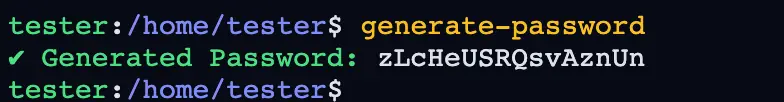
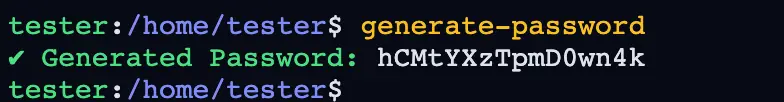
Introduction: a slide on adding packages with pkg; tests for pkg browse and pkg add
A seventh slide, More packages, between Games and Make it yours: pkg add
<name> adds tools and games that are not bundled (Connect Four, Hangman,
15-puzzle and Mastermind are on the way), Try it runs pkg browse, and its
picture is the real pkg browse output (npm run intro-images). Texts and alt
text in the 11 languages.

pkg works in the app as it is: no CSP, the service worker passes CDN requests
on, Android has the INTERNET permission. packages.spec.ts mocks the registry
and the CDNs with a sample plugin bundle: pkg browse lists it, pkg add
installs it, its command runs, and it is still there after a reload.

Changed region(s): [[0.4592, 0.4706, 0.8265, 0.7059]]

diff --git a/src/app/intro/intro-i18n.ts b/src/app/intro/intro-i18n.ts
@@ -29,6 +29,7 @@ export const INTRO_TEXT: Record<string, IntroText> = {
       ['Everyday tools', 'QR codes, passwords, GUIDs, encoding, curl, speed tests, to-dos, a stopwatch, charts and Markdown.', 'Screenshot: generate-password prints a new random password.'],
       ['Files', 'Your files stay on this device: list them with ls, read them with cat, edit them with nano.', 'Screenshot: ls lists the notes folder and todo.txt.'],
       ['Games', 'Snake, Tetris, 2048, Wordle, Sudoku and Minesweeper, by touch or keyboard.', 'Screenshot: the Snake board with the snake and an apple.'],
+      ['More packages', 'Add more tools and games with pkg add <name>; pkg browse lists them, and Connect Four, Hangman, 15-puzzle and Mastermind are on the way.', 'Screenshot: pkg browse lists the packages that can be added, with their versions.'],
       ['Make it yours', 'Pick colours with theme, one of 11 languages and more settings with configure.', 'Screenshot: theme list shows the dark themes with their colours.'],
     ],
   },
@@ -46,6 +47,7 @@ export const INTRO_TEXT: Record<string, IntroText> = {
       ['Alltagswerkzeuge', 'QR-Codes, Passwörter, GUIDs, Kodierung, curl, Speedtests, To-dos, eine Stoppuhr, Diagramme und Markdown.', 'Screenshot: generate-password gibt ein neues zufälliges Passwort aus.'],
       ['Dateien', 'Deine Dateien bleiben auf diesem Gerät: auflisten mit ls, lesen mit cat, bearbeiten mit nano.', 'Screenshot: ls listet den Ordner notes und todo.txt auf.'],
       ['Spiele', 'Snake, Tetris, 2048, Wordle, Sudoku und Minesweeper, per Touch oder Tastatur.', 'Screenshot: das Snake-Spielfeld mit der Schlange und einem Apfel.'],
+      ['Mehr Pakete', 'Weitere Werkzeuge und Spiele fügst du mit pkg add <name> hinzu; pkg browse listet sie auf, und Vier gewinnt, Galgenmännchen, 15-Puzzle und Mastermind sind unterwegs.', 'Screenshot: pkg browse listet die Pakete auf, die sich hinzufügen lassen, mit ihren Versionen.'],
       ['Ganz nach deinem Geschmack', 'Farben mit theme, eine von 11 Sprachen und weitere Einstellungen mit configure.', 'Screenshot: theme list zeigt die dunklen Themes mit ihren Farben.'],
     ],
   },
@@ -63,6 +65,7 @@ export const INTRO_TEXT: Record<string, IntroText> = {
       ['Herramientas diarias', 'Códigos QR, contraseñas, GUID, codificación, curl, pruebas de velocidad, tareas, un cronómetro, gráficos y Markdown.', 'Captura: generate-password muestra una contraseña aleatoria nueva.'],
       ['Archivos', 'Tus archivos se quedan en este dispositivo: lístalos con ls, léelos con cat y edítalos con nano.', 'Captura: ls lista la carpeta notes y todo.txt.'],
       ['Juegos', 'Snake, Tetris, 2048, Wordle, Sudoku y Buscaminas, con el dedo o con el teclado.', 'Captura: el tablero de Snake con la serpiente y una manzana.'],
+      ['Más paquetes', 'Añade más herramientas y juegos con pkg add <nombre>; pkg browse los lista, y Conecta 4, el Ahorcado, el 15-puzzle y Mastermind están en camino.', 'Captura: pkg browse lista los paquetes que se pueden añadir, con sus versiones.'],
       ['A tu manera', 'Elige los colores con theme, uno de 11 idiomas y más ajustes con configure.', 'Captura: theme list muestra los temas oscuros con sus colores.'],
     ],
   },
@@ -80,6 +83,7 @@ export const INTRO_TEXT: Record<string, IntroText> = {
       ['Outils du quotidien', 'Codes QR, mots de passe, GUID, encodage, curl, tests de débit, tâches, chronomètre, graphiques et Markdown.', 'Capture : generate-password affiche un nouveau mot de passe aléatoire.'],
       ['Fichiers', 'Vos fichiers restent sur cet appareil : listez-les avec ls, lisez-les avec cat, modifiez-les avec nano.', 'Capture : ls liste le dossier notes et todo.txt.'],
       ['Jeux', 'Snake, Tetris, 2048, Wordle, Sudoku et Démineur, au toucher ou au clavier.', 'Capture : le plateau de Snake avec le serpent et une pomme.'],
+      ['Plus de paquets', "Ajoutez d'autres outils et jeux avec pkg add <nom> ; pkg browse les liste, et Puissance 4, le Pendu, le taquin et Mastermind arrivent bientôt.", "Capture : pkg browse liste les paquets que l'on peut ajouter, avec leurs versions."],
       ['À votre image', "Choisissez les couleurs avec theme, l'une des 11 langues et d'autres réglages avec configure.", 'Capture : theme list affiche les thèmes sombres avec leurs couleurs.'],
     ],
   },
@@ -97,6 +101,7 @@ export const INTRO_TEXT: Record<string, IntroText> = {
       ['Strumenti quotidiani', 'Codici QR, password, GUID, codifica, curl, test di velocità, attività, cronometro, grafici e Markdown.', 'Schermata: generate-password stampa una nuova password casuale.'],
       ['File', 'I tuoi file restano su questo dispositivo: elencali con ls, leggili con cat, modificali con nano.', 'Schermata: ls elenca la cartella notes e todo.txt.'],
       ['Giochi', 'Snake, Tetris, 2048, Wordle, Sudoku e Campo minato, al tocco o da tastiera.', 'Schermata: il campo di Snake con il serpente e una mela.'],
+      ['Altri pacchetti', "Aggiungi altri strumenti e giochi con pkg add <nome>; pkg browse li elenca, e Forza 4, l'Impiccato, il gioco del 15 e Mastermind sono in arrivo.", 'Schermata: pkg browse elenca i pacchetti che si possono aggiungere, con le loro versioni.'],
       ['Su misura per te', 'Scegli i colori con theme, una delle 11 lingue e altre impostazioni con configure.', 'Schermata: theme list mostra i temi scuri con i loro colori.'],
     ],
   },
@@ -114,6 +119,7 @@ export const INTRO_TEXT: Record<string, IntroText> = {
       ['便利なツール', 'QR コード、パスワード、GUID、エンコード、curl、速度テスト、ToDo、ストップウォッチ、グラフ、Markdown。', 'スクリーンショット: generate-password が新しいランダムなパスワードを表示しています。'],
       ['ファイル', 'ファイルはこの端末に保存されます。ls で一覧、cat で表示、nano で編集。', 'スクリーンショット: ls が notes フォルダーと todo.txt を一覧表示しています。'],
       ['ゲーム', 'Snake、テトリス、2048、Wordle、数独、マインスイーパーをタッチやキーボードで。', 'スクリーンショット: ヘビとリンゴがある Snake のゲーム画面。'],
+      ['パッケージを追加', 'pkg add <名前> でツールやゲームを追加できます。pkg browse で一覧を表示。四目並べ、ハングマン、15 パズル、マスターマインドも準備中です。', 'スクリーンショット: pkg browse が追加できるパッケージをバージョン付きで一覧表示しています。'],
       ['自分好みに', 'theme で配色、11 の言語から選択、configure でその他の設定。', 'スクリーンショット: theme list がダークテーマを色付きで表示しています。'],
     ],
   },
@@ -131,6 +137,7 @@ export const INTRO_TEXT: Record<string, IntroText> = {
       ['일상 도구', 'QR 코드, 비밀번호, GUID, 인코딩, curl, 속도 측정, 할 일, 스톱워치, 차트, Markdown.', '스크린샷: generate-password가 새 무작위 비밀번호를 출력합니다.'],
       ['파일', '파일은 이 기기에 저장됩니다. ls로 목록, cat으로 읽기, nano로 편집.', '스크린샷: ls가 notes 폴더와 todo.txt를 나열합니다.'],
       ['게임', 'Snake, 테트리스, 2048, Wordle, 스도쿠, 지뢰 찾기를 터치나 키보드로.', '스크린샷: 뱀과 사과가 있는 Snake 게임 판.'],
+      ['패키지 추가', 'pkg add <이름>으로 도구와 게임을 더 추가하세요. pkg browse가 목록을 보여 주며, 사목, 행맨, 15 퍼즐, 마스터마인드도 준비 중입니다.', '스크린샷: pkg browse가 추가할 수 있는 패키지를 버전과 함께 나열합니다.'],
       ['나만의 설정', 'theme으로 색상, 11개 언어 중 선택, configure로 그 밖의 설정.', '스크린샷: theme list가 어두운 테마를 색상과 함께 보여 줍니다.'],
     ],
   },
@@ -148,6 +155,7 @@ export const INTRO_TEXT: Record<string, IntroText> = {
       ['Ferramentas do dia a dia', 'Códigos QR, senhas, GUIDs, codificação, curl, testes de velocidade, tarefas, cronômetro, gráficos e Markdown.', 'Captura de tela: generate-password mostra uma nova senha aleatória.'],
       ['Arquivos', 'Seus arquivos ficam neste dispositivo: liste com ls, leia com cat, edite com nano.', 'Captura de tela: ls lista a pasta notes e todo.txt.'],
       ['Jogos', 'Snake, Tetris, 2048, Wordle, Sudoku e Campo Minado, pelo toque ou pelo teclado.', 'Captura de tela: o tabuleiro do Snake com a cobra e uma maçã.'],
+      ['Mais pacotes', 'Adicione mais ferramentas e jogos com pkg add <nome>; pkg browse os lista, e Lig 4, Forca, o 15-puzzle e Mastermind estão a caminho.', 'Captura de tela: pkg browse lista os pacotes que podem ser adicionados, com suas versões.'],
       ['Do seu jeito', 'Escolha as cores com theme, um de 11 idiomas e outras configurações com configure.', 'Captura de tela: theme list mostra os temas escuros com suas cores.'],
     ],
   },
@@ -165,6 +173,7 @@ export const INTRO_TEXT: Record<string, IntroText> = {
       ['Unelte de zi cu zi', 'Coduri QR, parole, GUID-uri, codificare, curl, teste de viteză, sarcini, cronometru, grafice și Markdown.', 'Captură de ecran: generate-password afișează o parolă nouă, aleatorie.'],
       ['Fișiere', 'Fișierele tale rămân pe acest dispozitiv: listează-le cu ls, citește-le cu cat, editează-le cu nano.', 'Captură de ecran: ls listează folderul notes și todo.txt.'],
       ['Jocuri', 'Snake, Tetris, 2048, Wordle, Sudoku și Minesweeper, prin atingere sau de la tastatură.', 'Captură de ecran: tabla jocului Snake, cu șarpele și un măr.'],
+      ['Mai multe pachete', 'Adaugă alte unelte și jocuri cu pkg add <nume>; pkg browse le listează, iar Connect Four, Spânzurătoarea, jocul 15 și Mastermind sunt pe drum.', 'Captură de ecran: pkg browse listează pachetele care pot fi adăugate, cu versiunile lor.'],
       ['Pe gustul tău', 'Alege culorile cu theme, una din 11 limbi și alte setări cu configure.', 'Captură de ecran: theme list arată temele întunecate cu culorile lor.'],
     ],
   },
@@ -182,6 +191,7 @@ export const INTRO_TEXT: Record<string, IntroText> = {
       ['Инструменты на каждый день', 'QR-коды, пароли, GUID, кодирование, curl, тест скорости, задачи, секундомер, графики и Markdown.', 'Снимок экрана: generate-password выводит новый случайный пароль.'],
       ['Файлы', 'Ваши файлы хранятся на этом устройстве: список — ls, чтение — cat, правка — nano.', 'Снимок экрана: ls показывает папку notes и todo.txt.'],
       ['Игры', 'Snake, Tetris, 2048, Wordle, Sudoku и Сапёр — касанием или с клавиатуры.', 'Снимок экрана: поле игры Snake со змейкой и яблоком.'],
+      ['Больше пакетов', 'Добавляйте инструменты и игры командой pkg add <имя>; pkg browse покажет список, а «Четыре в ряд», «Виселица», «Пятнашки» и Mastermind уже на подходе.', 'Снимок экрана: pkg browse показывает пакеты, которые можно добавить, с их версиями.'],
       ['Под себя', 'Цвета — theme, один из 11 языков и другие настройки — configure.', 'Снимок экрана: theme list показывает тёмные темы с их цветами.'],
     ],
   },
@@ -199,6 +209,7 @@ export const INTRO_TEXT: Record<string, IntroText> = {
       ['日常工具', '二维码、密码、GUID、编码、curl、网速测试、待办、秒表、图表和 Markdown。', '截图：generate-password 输出一个新的随机密码。'],
       ['文件', '文件保存在本设备上：用 ls 列出，用 cat 查看，用 nano 编辑。', '截图：ls 列出 notes 文件夹和 todo.txt。'],
       ['游戏', '贪吃蛇、俄罗斯方块、2048、Wordle、数独和扫雷，触屏或键盘皆可。', '截图：贪吃蛇游戏棋盘，有蛇和一个苹果。'],
+      ['更多软件包', '用 pkg add <名称> 添加更多工具和游戏；pkg browse 会列出它们，四子棋、猜词游戏、数字华容道和珠玑妙算也即将推出。', '截图：pkg browse 列出可添加的软件包及其版本。'],
       ['个性化', '用 theme 换配色，在 11 种语言中选择，用 configure 调整更多设置。', '截图：theme list 显示深色主题及其配色。'],
     ],
   },

diff --git a/e2e/packages.spec.ts b/e2e/packages.spec.ts
@@ -1,0 +1,86 @@
+import { expect, Page, test } from '@playwright/test';
+
+import { openTerminal, run, terminalText } from './terminal';
+
+/**
+ * `pkg` adds plugins that are not bundled with the app, from the npm registry
+ * and the unpkg/jsDelivr CDNs. The network is mocked: one sample package, served
+ * as the IIFE bundle every plugin publishes (it registers itself with the
+ * engine through window.__cliModuleRegistry, as bootCliModule does).
+ */
+const SAMPLE = {
+  name: '@qodalis/cli-e2e-sample',
+  version: '1.0.0',
+  description: 'Sample package for the end-to-end tests',
+  umd: './umd/index.global.js',
+  unpkg: './umd/index.global.js',
+};
+
+const BUNDLE = `"use strict";
+(() => {
+  const module = {
+    apiVersion: 2,
+    name: '${SAMPLE.name}',
+    processors: [{
+      command: 'e2e-sample',
+      description: 'Says hello from an added package',
+      processCommand: async (_, context) => context.writer.writeln('Hello from an added package'),
+    }],
+  };
+  window.__cliModuleRegistry && window.__cliModuleRegistry.register(module);
+})();`;
+
+async function mockRegistry(page: Page): Promise<string[]> {
+  const requests: string[] = [];
+  await page.route('https://registry.npmjs.org/**', (route) => {
+    requests.push(route.request().url());
+    return route.fulfill({
+      json: {
+        objects: [{ package: { name: SAMPLE.name, version: SAMPLE.version, description: SAMPLE.description } }],
+      },
+    });
+  });
+  await page.route(/^https:\/\/(unpkg\.com|cdn\.jsdelivr\.net\/npm)\/.*/, (route) => {
+    const url = decodeURIComponent(route.request().url());
+    requests.push(url);
+    if (!url.includes(SAMPLE.name)) {
+      return route.fulfill({ status: 404, body: 'Not found' });
+    }
+    return url.endsWith('/package.json')
+      ? route.fulfill({ json: SAMPLE })
+      : route.fulfill({ body: BUNDLE, contentType: 'application/javascript' });
+  });
+  return requests;
+}
+
+test.describe('packages (pkg)', () => {
+  // Requests the service worker passes on are not seen by page.route.
+  test.use({ serviceWorkers: 'block' });
+  test.beforeEach(({ isMobile }) => test.skip(!isMobile, 'same on desktop'));
+
+  test('pkg browse lists packages that can be added', async ({ page }) => {
+    await mockRegistry(page);
+    await openTerminal(page);
+    await run(page, 'pkg browse');
+    await expect.poll(() => terminalText(page)).toContain('e2e-sample');
+    expect(await terminalText(page)).toContain('not installed');
+  });
+
+  test('pkg add installs a package that is not bundled; it stays after a reload', async ({ page }) => {
+    const requests = await mockRegistry(page);
+    await openTerminal(page);
+    await run(page, 'pkg add e2e-sample');
+    await expect.poll(() => terminalText(page)).toMatch(/Package @qodalis\/cli-e2e-sample@1\.0\.0 added/);
+    expect(requests.some((url) => url.endsWith(`${SAMPLE.name}/umd/index.global.js`))).toBe(true);
+
+    await run(page, 'e2e-sample');
+    await expect.poll(() => terminalText(page)).toContain('Hello from an added package');
+
+    await page.reload();
+    await openTerminal(page);
+    await run(page, 'pkg ls');
+    await expect.poll(() => terminalText(page)).toContain(`${SAMPLE.name}@${SAMPLE.version}`);
+    await run(page, 'e2e-sample');
+    await expect.poll(() => terminalText(page)).toContain('Hello from an added package');
+  });
+});

diff --git a/e2e/intro.spec.ts b/e2e/intro.spec.ts
@@ -56,16 +56,16 @@ test.describe('first-run introduction', () => {
     await expect(dialog(page)).toHaveCount(0);
   });
 
-  test('Next leads through the six slides to Get started', async ({ page }) => {
+  test('Next leads through the seven slides to Get started', async ({ page }) => {
     await recordEvents(page);
     await page.goto('/');
-    const titles = ['Welcome', 'Getting around', 'Everyday tools', 'Files', 'Games', 'Make it yours'];
+    const titles = ['Welcome', 'Getting around', 'Everyday tools', 'Files', 'Games', 'More packages', 'Make it yours'];
     for (const [i, title] of titles.entries()) {
       await expect(currentSlide(page).getByRole('heading')).toHaveText(title);
       await expect(dialog(page).locator('.dot').nth(i)).toHaveAttribute('aria-current', 'step');
       if (i > 0) {
         // Screen readers hear the slide change.
-        await expect(dialog(page).locator('[aria-live]')).toHaveText(`Slide ${i + 1} of 6: ${title}`);
+        await expect(dialog(page).locator('[aria-live]')).toHaveText(`Slide ${i + 1} of 7: ${title}`);
       }
       if (i < titles.length - 1) {
         await dialog(page).getByRole('button', { name: 'Next' }).click();

diff --git a/src/app/intro/intro.ts b/src/app/intro/intro.ts
@@ -23,13 +23,14 @@ export interface IntroSlide {
   command: string;
 }
 
-/** Welcome, getting around, everyday tools, files, games, make it yours (texts in intro-i18n.ts). */
+/** Welcome, getting around, everyday tools, files, games, more packages, make it yours (texts in intro-i18n.ts). */
 export const INTRO_SLIDES: IntroSlide[] = [
   { image: 'intro/welcome.webp', width: 784, height: 550, command: 'help' },
   { image: 'intro/getting-around.webp', width: 784, height: 326, command: 'history' },
   { image: 'intro/everyday-tools.webp', width: 784, height: 102, command: 'generate-password' },
   { image: 'intro/files.webp', width: 784, height: 102, command: 'ls' },
   { image: 'intro/games.webp', width: 784, height: 870, command: 'snake' },
+  { image: 'intro/packages.webp', width: 784, height: 358, command: 'pkg browse' },
   { image: 'intro/make-it-yours.webp', width: 784, height: 422, command: 'theme list' },
 ];
 

diff --git a/e2e/intro.images.ts b/e2e/intro.images.ts
@@ -132,6 +132,16 @@ test('games: snake', async ({ page }) => {
   await capture(page, 'games', status, 150);
 });
 
+test('more packages: pkg browse', async ({ page }) => {
+  // Searches the npm registry: needs the network.
+  await openTerminal(page);
+  await clearScreen(page);
+  await run(page, 'pkg browse');
+  await expect.poll(() => terminalLines(page)).toContainEqual(expect.stringMatching(/Available packages/));
+  await scrollToCommand(page, 'pkg browse');
+  await capture(page, 'packages', 11);
+});
+
 test('make it yours: theme list', async ({ page }) => {
   await openTerminal(page);
   await clearScreen(page);

diff --git a/src/app/intro/intro.component.ts b/src/app/intro/intro.component.ts
@@ -18,7 +18,7 @@ import { INTRO_SLIDES, IntroTrigger } from './intro';
 const SWIPE_PX = 50;
 
 /**
- * The first-run introduction: six slides over the terminal, turned by swipe,
+ * The first-run introduction: seven slides over the terminal, turned by swipe,
  * the dots, Next or the arrow keys. Every slide's "Try it" closes it and runs
  * an example command; Skip, Escape and "Get started" close it.
  */

diff --git a/README.md b/README.md
@@ -68,6 +68,7 @@ The CLI engine with every plugin that runs on the device; none needs a server. T
 | Phone | `device`, `battery`, `network`, `share` (text or piped output, to any app), `vibrate`, `toast` |
 | Games | 2048, Tetris, Snake, Minesweeper, Sudoku, Wordle; play by touch (pads, swipes, taps) or keyboard |
 | Languages | English plus 10 translations; starts in the device language when one matches |
+| More packages | `pkg browse` lists the published plugins, `pkg add <name>` installs one from the npm CDNs (unpkg, jsDelivr) and keeps it across launches, `pkg remove` drops it. Games that are not bundled come this way |
 
 The users plugin is included: the first launch asks for the owner's account (user name, email, password) and signs it
 in; later launches restore the session. Accounts stay on the device.
@@ -76,7 +77,7 @@ in; later launches restore the session. Accounts stay on the device.
 
 | Feature | Details |
 | --- | --- |
-| Introduction | On the first launch, six slides (swipe, dots, Next, arrow keys) show what the app can do before the terminal; each slide shows a screenshot of the real app (`npm run intro-images`) and its "Try it" runs that command. `intro` opens it again. Translated into the CLI's languages; the Android consent message and banner wait until it closes (`src/app/intro/`) |
+| Introduction | On the first launch, seven slides (swipe, dots, Next, arrow keys) show what the app can do before the terminal; each slide shows a screenshot of the real app (`npm run intro-images`) and its "Try it" runs that command. `intro` opens it again. Translated into the CLI's languages; the Android consent message and banner wait until it closes (`src/app/intro/`) |
 | Extra keys | Two rows: Esc, Tab, Ctrl+C, Home, End, Del, arrows and `/ \| -`, sent as real key presses (`src/app/extra-keys/`). CTRL is sticky: tap it, then a key (also on the keyboard: Ctrl+A/E/U/K/W/L); double-tap locks it. Held arrows and Del repeat |
 | Command keys | Full-screen commands declare the keys they read (`controls` in `@qodalis/cli-core`), shown in place of the extra keys (`src/app/command-keys/`). Games get big buttons, swipes send arrows and a tap rotates (Tetris) or reveals (Minesweeper), and the on-screen keyboard closes while a hardware keyboard keeps working. `nano` (Save, Exit, Find, Cut, Paste, PgUp/PgDn), Wordle and other text commands keep the keyboard with a compact row |
 | Keyboard-aware layout | The terminal stays above the on-screen keyboard (`src/app/viewport.ts`) |
